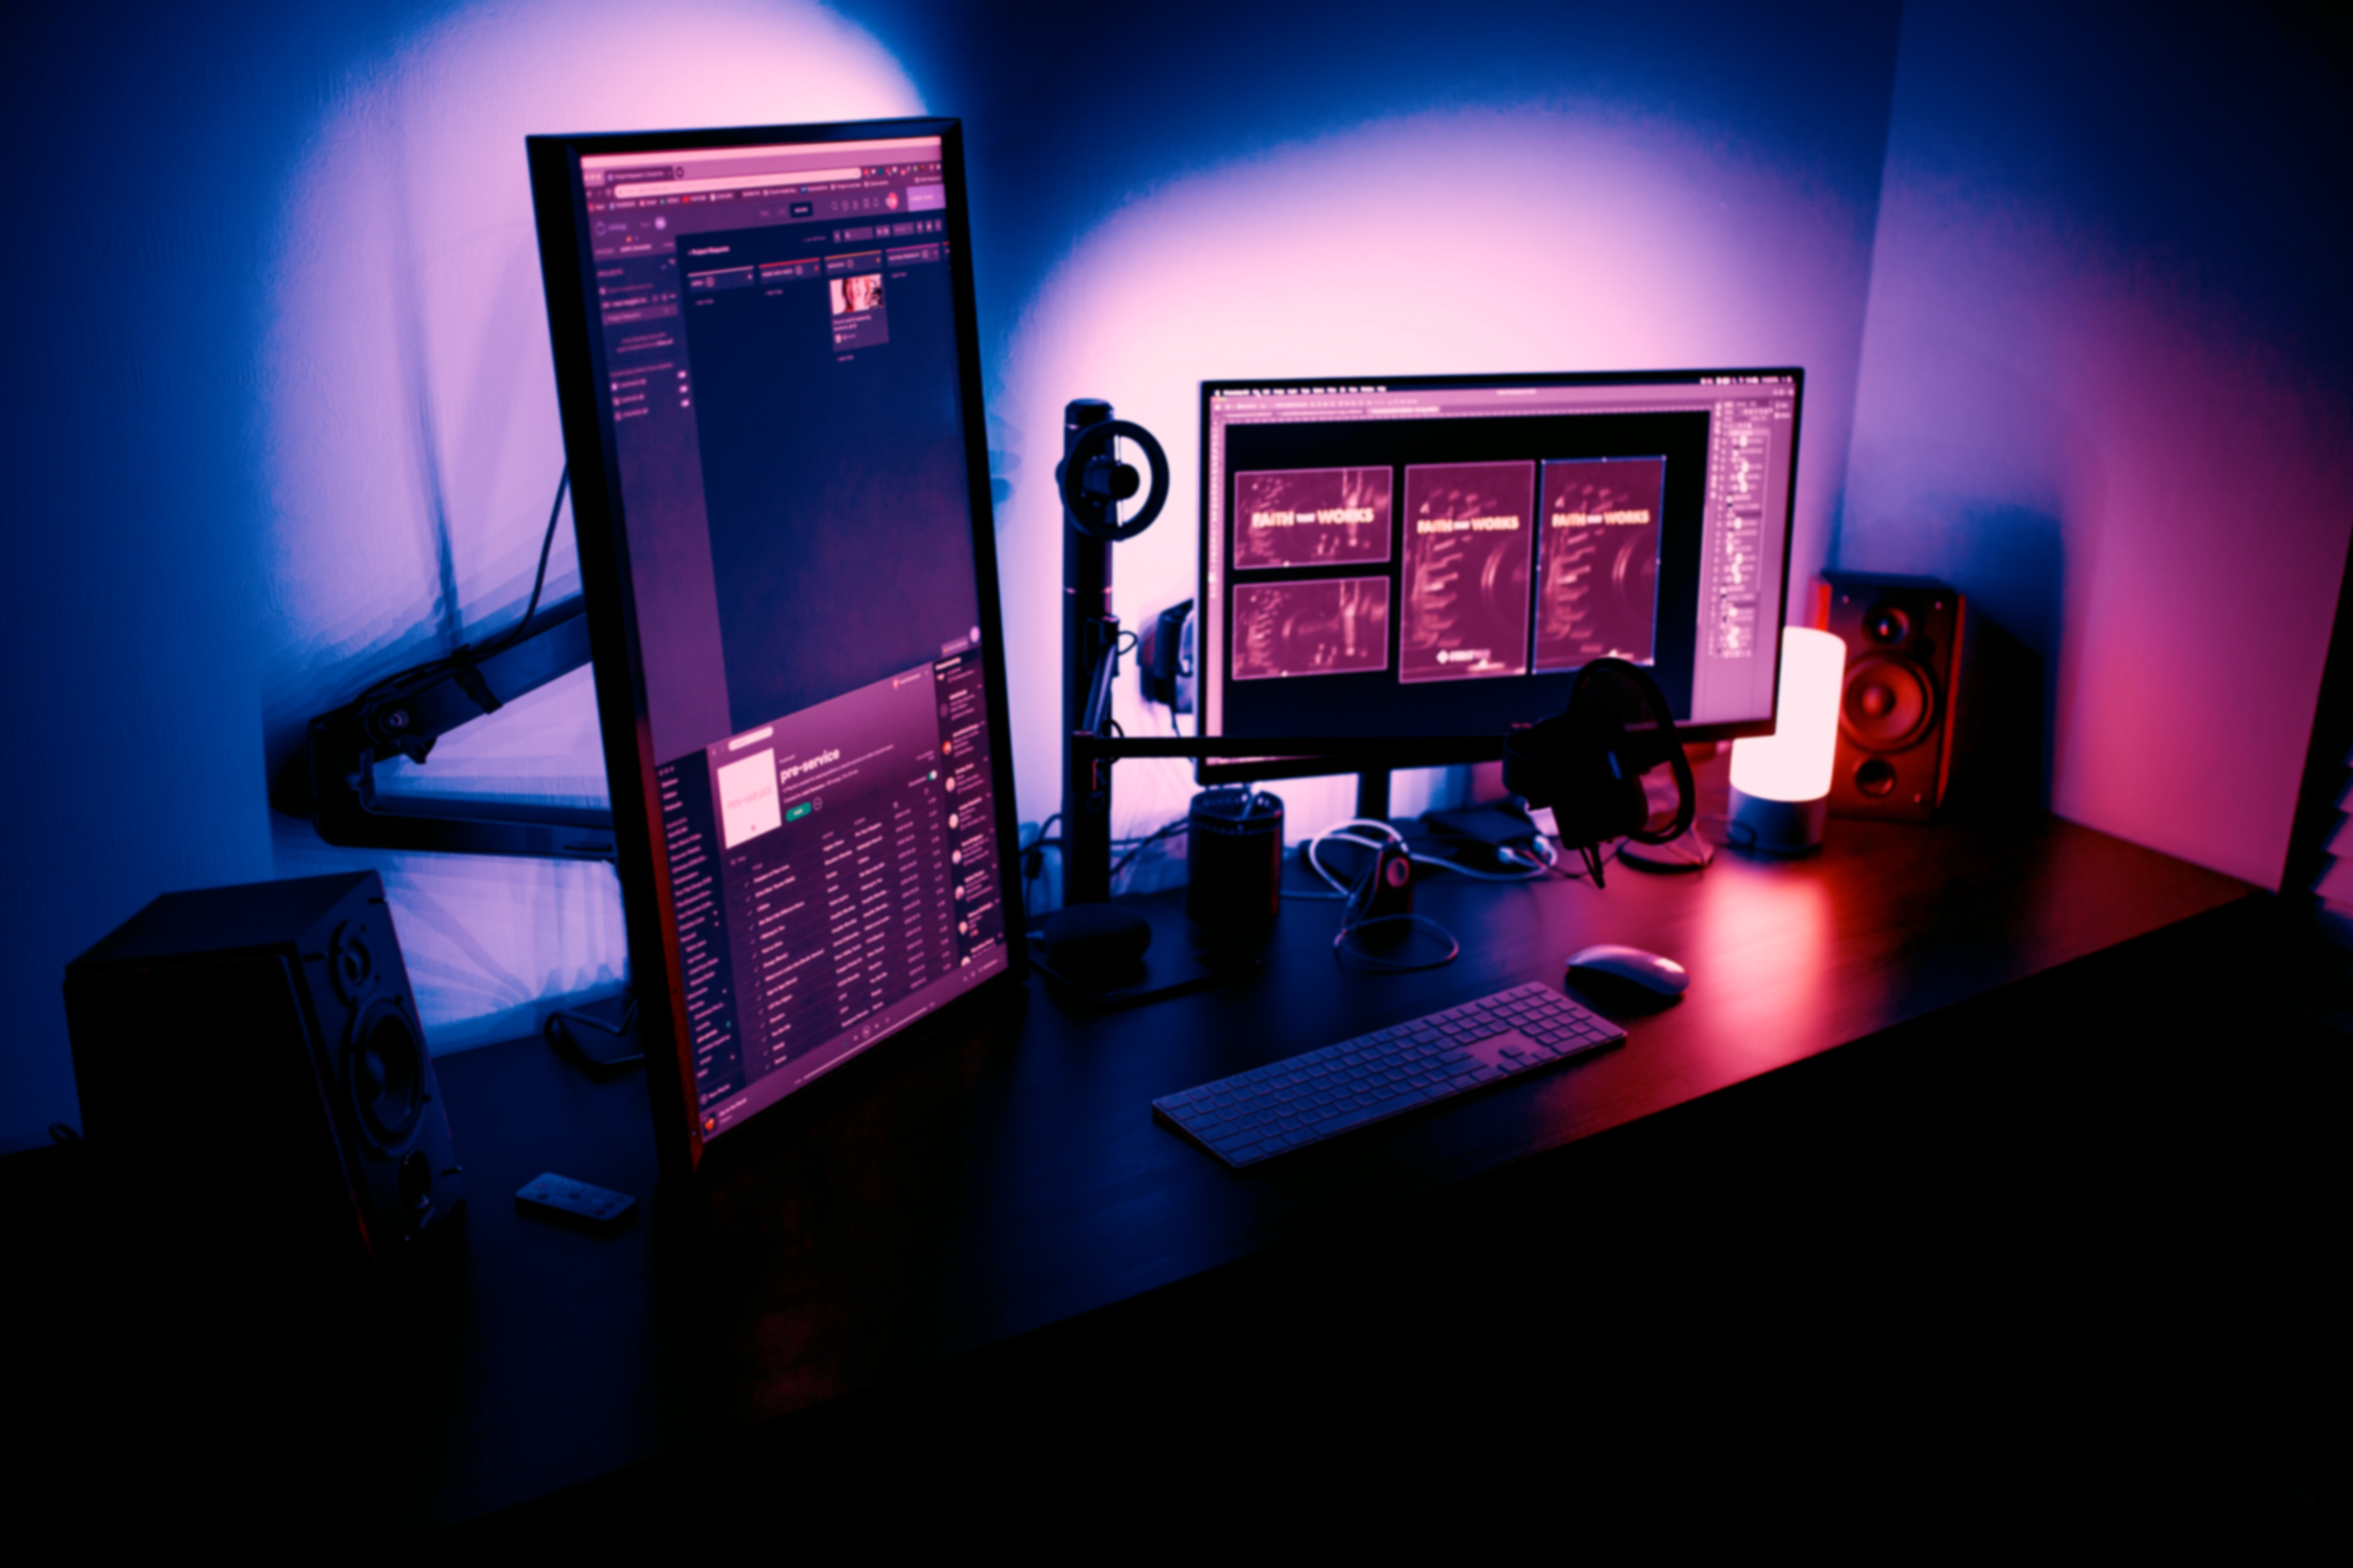
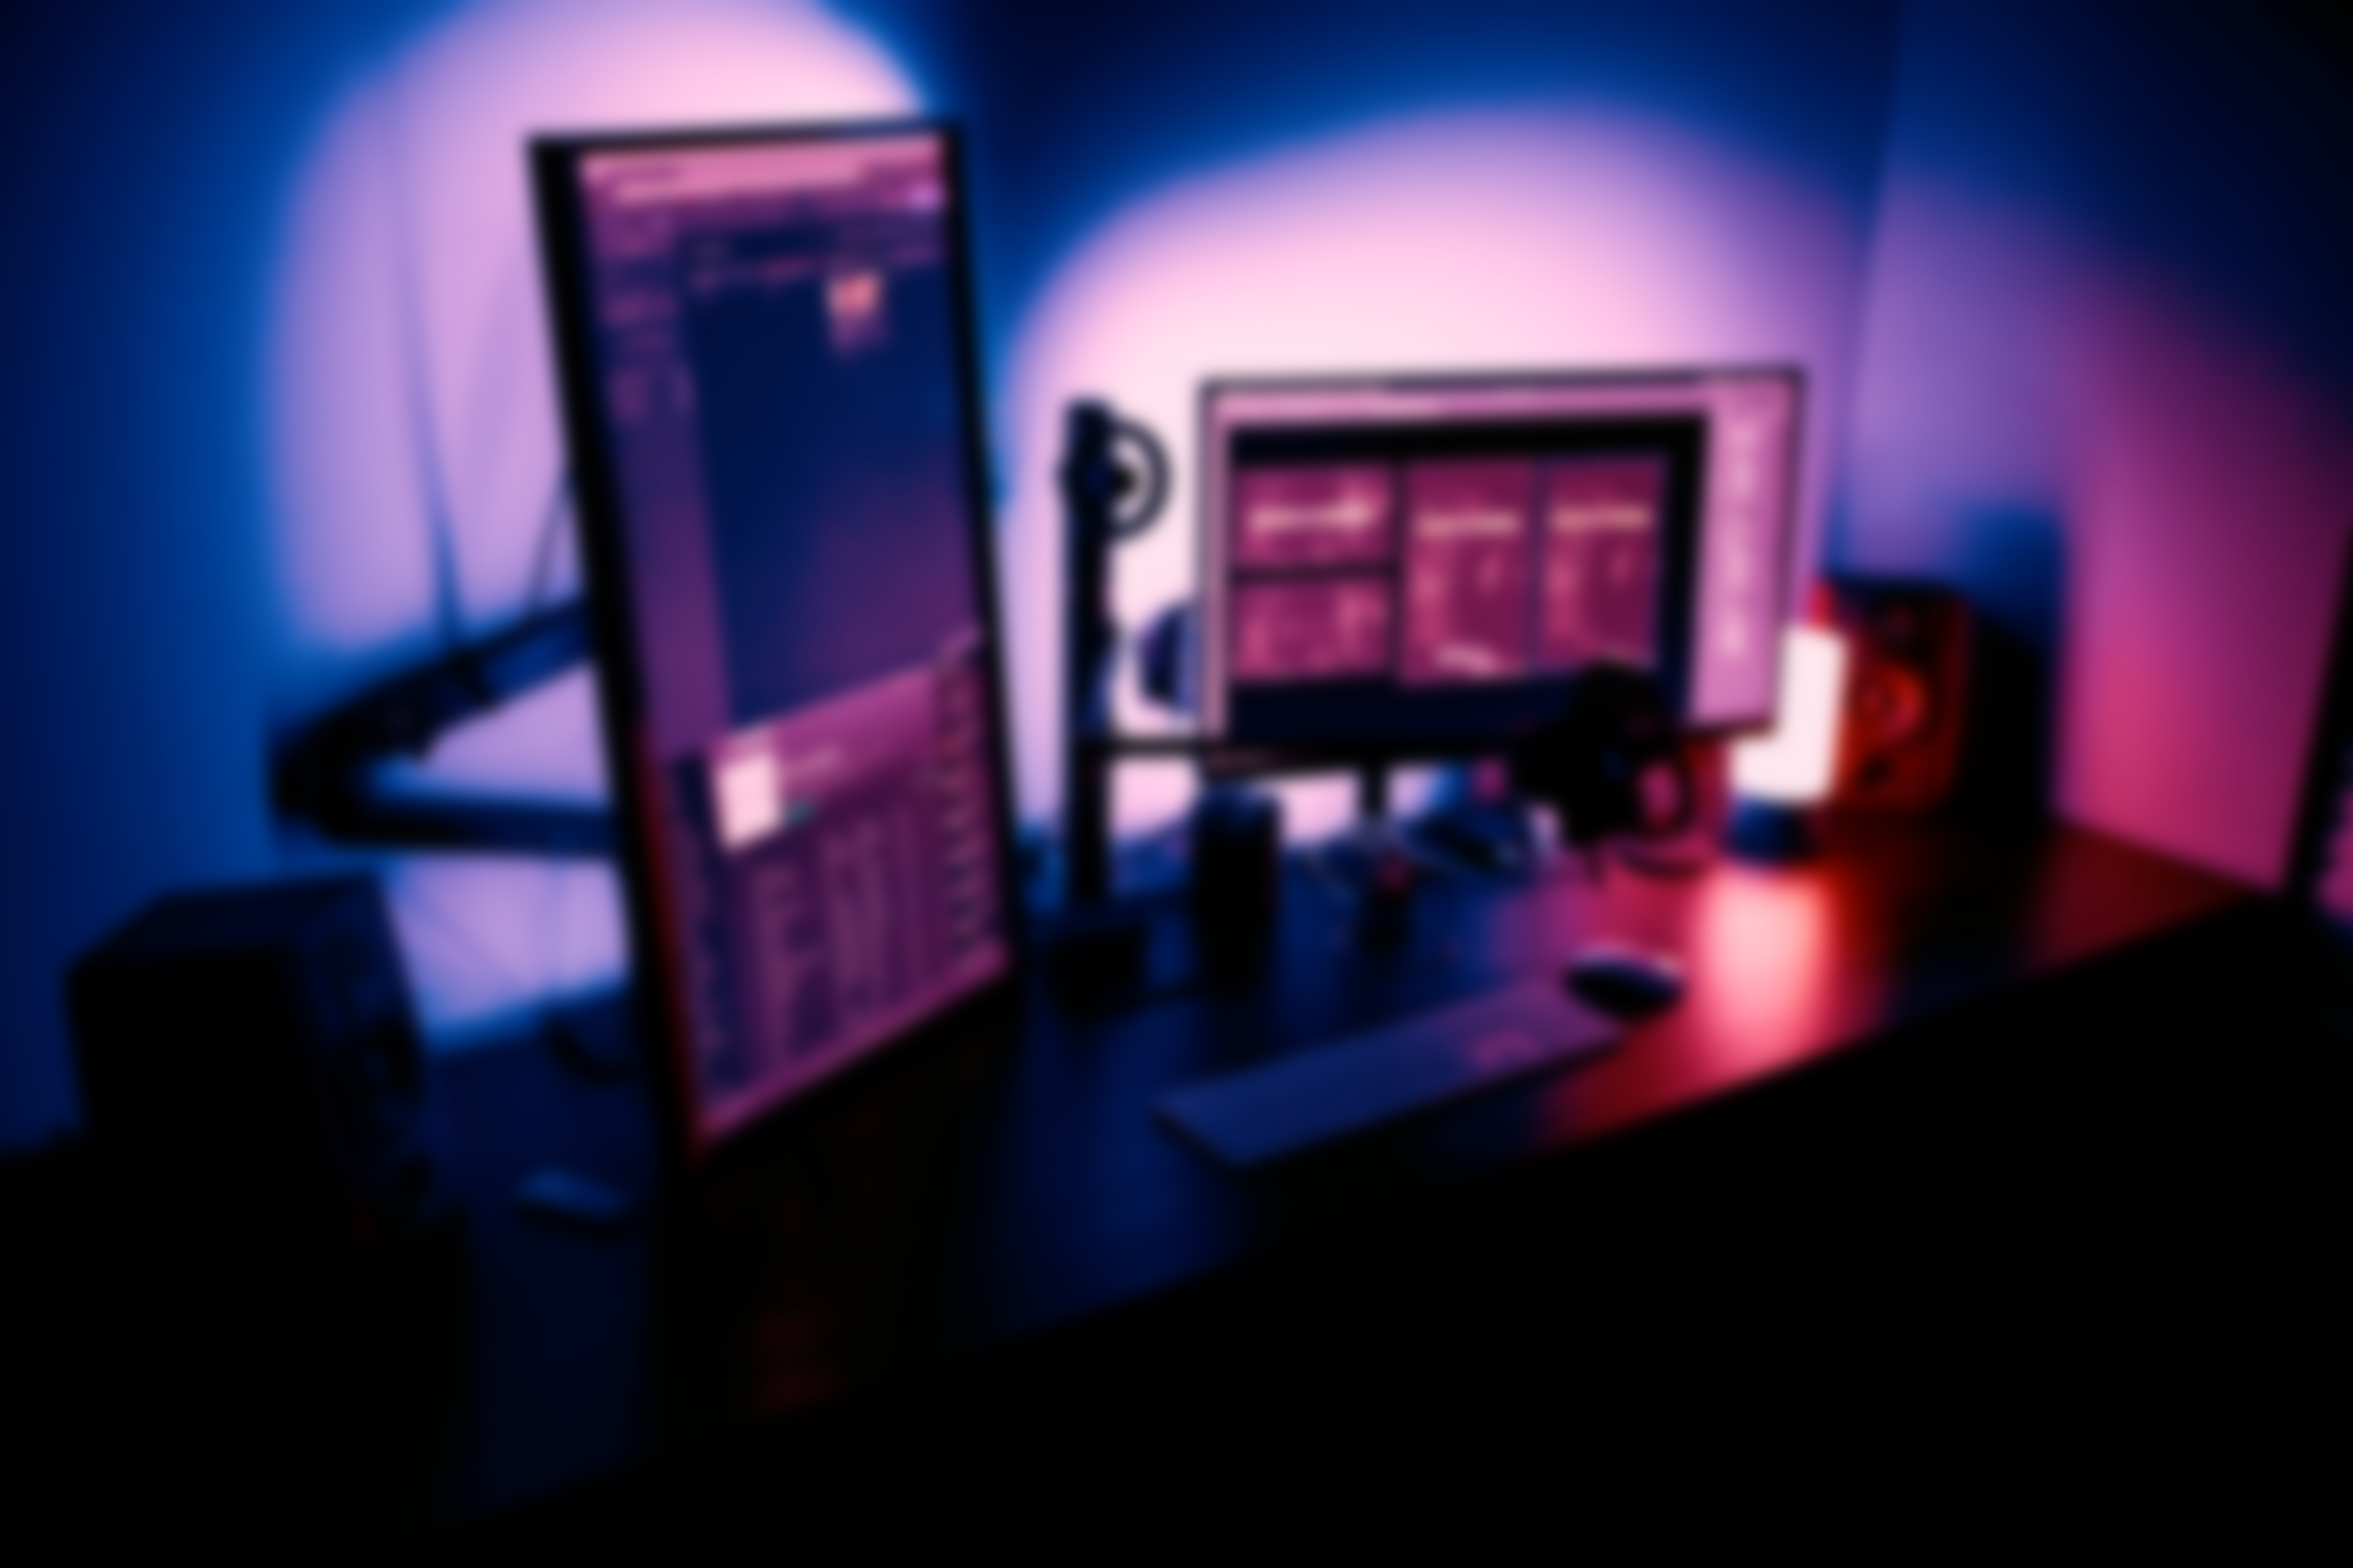
Trabajé en las fuentes de la página, en los div de la seccion skills, arreglé algunas cosas del footer, y le añadí un blur al fondo del parallex

diff --git a/index.html b/index.html
@@ -6,9 +6,9 @@
     <meta name="viewport" content="width=device-width, initial-scale=1.0">
     <!--Link bootstrap-->
     <link href="https://cdn.jsdelivr.net/npm/bootstrap@5.0.0-beta3/dist/css/bootstrap.min.css" rel="stylesheet" integrity="sha384-eOJMYsd53ii+scO/bJGFsiCZc+5NDVN2yr8+0RDqr0Ql0h+rP48ckxlpbzKgwra6" crossorigin="anonymous">
-    <!--Links de Open Sans de google fonts-->
+    <!--Links de Kaushan Script de google fonts-->
     <link rel="preconnect" href="https://fonts.gstatic.com">
-    <link href="https://fonts.googleapis.com/css2?family=Open+Sans&display=swap" rel="stylesheet"> 
+    <link href="https://fonts.googleapis.com/css2?family=Josefin+Sans:wght@300;400&family=Kaushan+Script&display=swap" rel="stylesheet"> 
     <!--Mi hoja de estilos-->
     <link rel="stylesheet" href="portfolio.css">
     <!--El script de font awesome por los iconos que se utilizan-->
@@ -38,7 +38,7 @@
 <section id="aboutme">
     <h2 class="text-center mt-5 white">Un poco de mí</h2>
     <div class="row container ms-auto me-auto">
-        <div class="col-lg-8 col-md-6 col-12 mt-2">
+        <div class="col-lg-8 col-md-12 mt-2">
             <p class="mt-2 white">
                 Hola! Soy Fernando.
                 Me egresé de técnico informático en la escuela secundaria Sagrado Corazón de Jesús (Hurlingham)
@@ -48,7 +48,7 @@
                 Mi objetivo es adquirir experiencia y desarrollarme en el área de sistemas. Ir creciendo en este ámbito y lograr ser parte de proyectos cada vez más grandes.
             </p>
         </div>
-        <div class="col-lg-4 col-md-6 col-12">
+        <div class="col-lg-4 col-md-12">
             <img class="img-size" src="images/fotito.jpg" alt="Imagen de Fernando">
         </div>
     </div>
@@ -106,13 +106,20 @@
   
 
 
-<div class="parallax d-flex" id="section-1">
+<div class="parallax" id="section-1">
+    <div class="title-skills">
+        <h2 class="text-center white">Tecnologías dominadas</h2>
+    </div>
 
-    <div class="grid-container white m-auto">
-        <div class="grid-item"><i style="color: green" class="fab fa-html5 icon"></i></div>
-        <div class="grid-item"><i style="color: red" class="fab fa-css3-alt icon"></i></div>
-        <div class="grid-item"><i style="color: orange" class="fab fa-js-square icon"></i></div>
-        <div class="grid-item"><img src="images/net.png" alt=".net logo" class="img-net"></div>
+    <div class="grid-container white">
+        <div class="grid-item"><i id="html" style="color: green" class="fab fa-html5 icon"></i></div>
+        <div class="grid-item"><i id="css" style="color: red" class="fab fa-css3-alt icon"></i></div>
+        <div class="grid-item"><i id="js" style="color: orange" class="fab fa-js-square icon"></i></div>
+        <div class="grid-item"><img id="net" src="images/net.png" alt=".net logo" class="img-net"></div>
+    </div>
+
+    <div>
+        <h2 id="skillName" class="text-center white title-skills mt-4"></h2>
     </div>
 
 </div>
@@ -149,21 +156,20 @@
     <div class="row justify-content-center align-items-center">
         <div class="col-lg-3 col-md-3 col-12 align-self-center">
             <address class="mb-2">
-                <p class="footer-texto">
-                    Boulevard Marítimo Peralta Ramos 2411, 1F
+                <p class="white">
+                    Mar del Plata, Argentina
                 </p>
             </address>
-            <p class="footer-texto">
+            <p class="white">
                 1123798018
             </p>
-            <a href="https://www.instagram.com/efra.com.ar/"><i class="iconfooter fab fa-instagram fa-3x text-danger"></i></a>
             <a href="https://www.linkedin.com/in/fernando-r%C3%ADos-b79793120/"><i class="iconfooter fab fa-linkedin fa-3x text-primary"></i></a>
         </div>
         <div class="col-lg-3 col-md-3 col-12">
-            <p class="footer-texto mt-2">Copyright © 1998 Fernando Ríos</p>
+            <p class="white mt-2">Copyright © 1998 Fernando Ríos</p>
         </div>
         <div class="col-lg-4 col-md-3 col-12">
-            <iframe src="https://www.google.com/maps/embed?pb=!1m18!1m12!1m3!1d12576.41508217685!2d-57.54195370000001!3d-37.99803994999999!2m3!1f0!2f0!3f0!3m2!1i1024!2i768!4f13.1!3m3!1m2!1s0x9584defaf42b3daf%3A0x47e0a4f5da457b2b!2sCasino%20Central!5e0!3m2!1ses-419!2sar!4v1618022711095!5m2!1ses-419!2sar" width="100%" height="150px" style="border:0;" allowfullscreen="" loading="lazy"></iframe>
+            <iframe src="https://www.google.com/maps/embed?pb=!1m18!1m12!1m3!1d12576.41508217685!2d-57.54195370000001!3d-37.99803994999999!2m3!1f0!2f0!3f0!3m2!1i1024!2i768!4f13.1!3m3!1m2!1s0x9584defaf42b3daf%3A0x47e0a4f5da457b2b!2sCasino%20Central!5e0!3m2!1ses-419!2sar!4v1618022711095!5m2!1ses-419!2sar" width="100%" height="150px" style="border:0; margin-top: 5px; " allowfullscreen="" loading="lazy"></iframe>
         </div>
     </div>
 </footer>

diff --git a/portfolio.css b/portfolio.css
@@ -35,15 +35,40 @@
   background-size: cover;
 }
 
+.title-skills {
+  display: flex;
+  justify-content: center;
+  align-items: center;
+  text-align: center;
+  height: 150px;
+  width: auto;
+  font-size: 3em;
+}
+
+.title-skills h2 {
+  background-color: rgba(19, 19, 19, 0.82);
+  padding: 0.4em;
+  border-radius: 10%;
+  -webkit-border-radius: 10%;
+  -moz-border-radius: 10%;
+  -ms-border-radius: 10%;
+  -o-border-radius: 10%;
+}
+
 #section-1 {
   background-image: url("images/bg-it-p.jpg");
 }
 
 .logo {
   color: white;
+  font-family: "Kaushan Script", cursive;
   font-size: 35px;
   padding: 0 80px;
-  font-weight: bold;
+}
+
+p {
+  font-weight: 300;
+  font-size: 1.1em;
 }
 
 .menu-items {
@@ -72,8 +97,11 @@
 }
 
 body {
-  font-family: "Open Sans", Arial, Helvetica, sans-serif;
+  /* font-family: "Open Sans", Arial, Helvetica, sans-serif; */
+  font-family: "Josefin Sans", sans-serif;
   background: rgb(245, 245, 245);
+  font-style: light;
+  font-weight: 400;
 }
 
 .menu-items li:hover {
@@ -109,10 +137,11 @@ body {
   grid-template-columns: repeat(4, 10vw);
   grid-template-rows: 150px;
   grid-gap: 8vw;
+  justify-content: center;
 }
 
 .grid-item {
-  background-color: rgba(19, 19, 19, 0.753);
+  background-color: rgba(19, 19, 19, 0.82);
   padding: 2rem;
   font-size: 5rem;
   display: flex;

diff --git a/portfolio.js b/portfolio.js
@@ -1,3 +1,4 @@
+
 addEventListener('DOMContentLoaded',() => {
     const btnMenu = document.querySelector('.btn-menu')
     if (btnMenu){
@@ -7,4 +8,39 @@ addEventListener('DOMContentLoaded',() => {
 
         })
     }
+})
+
+let js = document.getElementById("js");
+let css = document.getElementById("css");
+let html = document.getElementById("html");
+let net = document.getElementById("net");
+let skillName = document.getElementById("skillName");
+
+js.addEventListener('mouseover', ()=>{
+    skillName.textContent = "Javascript";
+})
+js.addEventListener('mouseout', ()=>{
+    skillName.textContent = "";
+})
+
+
+css.addEventListener('mouseover', ()=>{
+    skillName.textContent = "CSS3";
+})
+css.addEventListener('mouseout', ()=>{
+    skillName.textContent = "";
+})
+
+html.addEventListener('mouseover', ()=>{
+    skillName.textContent = "HTML5";
+})
+html.addEventListener('mouseout', ()=>{
+    skillName.textContent = "";
+})
+
+net.addEventListener('mouseover', ()=>{
+    skillName.textContent = ".NET";
+})
+net.addEventListener('mouseout', ()=>{
+    skillName.textContent = "";
 })
